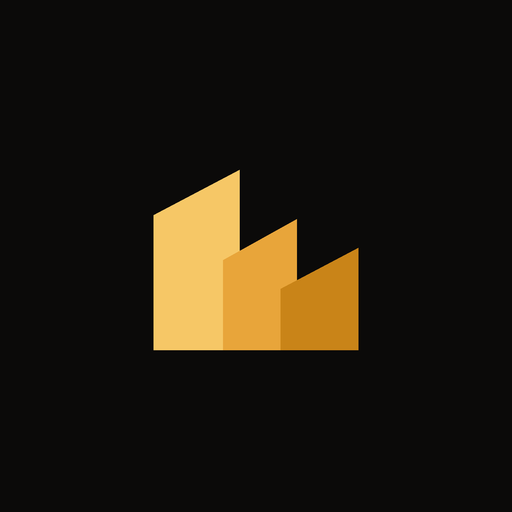
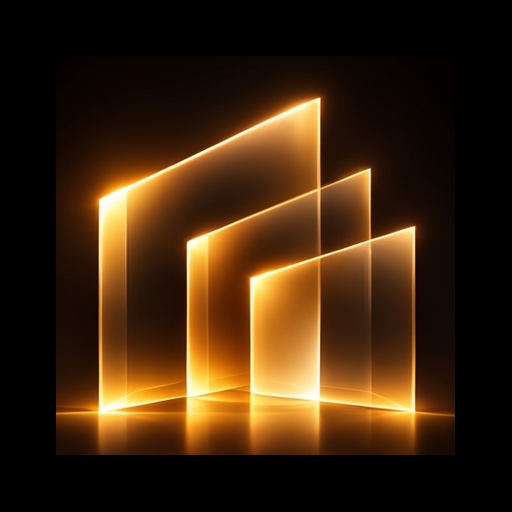
Add files via upload

diff --git a/index.html b/index.html
@@ -42,6 +42,10 @@ h1,h2,h3{font-family:var(--f-num);margin:0;text-wrap:balance}
 h1{font-size:24px;font-weight:700}
 h2{font-size:17px;font-weight:600}
 h3{font-size:15px;font-weight:600}
+.brand{display:flex;align-items:center;gap:12px;min-width:0}
+.brand .mark{width:52px;height:52px;border-radius:12px;flex:none;background:#000}
+.loginlogo{display:block;margin:0 auto;width:140px;height:140px;border-radius:16px;background:#000}
+#setTitle{text-align:center}
 header{display:flex;flex-wrap:wrap;align-items:center;justify-content:space-between;gap:12px}
 .sub{color:var(--muted);font-size:13px}
 .panel{background:var(--surface);border:1px solid var(--line);border-radius:14px;padding:18px;display:flex;flex-direction:column;gap:14px;min-width:0}
@@ -205,9 +209,12 @@ input[type=url],input[type=password]{font:inherit;font-size:16px;color:var(--fg)
 <body>
 <div class="wrap" id="app">
   <header>
-    <div>
-      <h1>مصاريف مالتيفرس</h1>
-      <div class="sub">سجّل أي مصروف، واختار اتدفع من عهدة الحسابات ولا اتصرف من البنك على طول</div>
+    <div class="brand">
+      <img src="logo-mark.png" alt="" width="52" height="52" class="mark">
+      <div>
+        <h1>مصاريف مالتيفرس</h1>
+        <div class="sub">سجّل أي مصروف، واختار اتدفع من عهدة الحسابات ولا اتصرف من البنك على طول</div>
+      </div>
     </div>
     <div class="hdr-tools">
       <button class="btn" id="syncBtn" type="button" aria-label="تحديث البيانات"><span id="sync" class="sync">…</span></button>
@@ -344,6 +351,7 @@ input[type=url],input[type=password]{font:inherit;font-size:16px;color:var(--fg)
 
 <div class="overlay" id="settings" hidden role="dialog" aria-modal="true" aria-labelledby="setTitle">
   <form class="panel" id="setForm" novalidate>
+    <img src="logo-full.png" alt="Multiverse Group" width="140" height="140" class="loginlogo">
     <h2 id="setTitle">مصاريف مالتيفرس</h2>
     <div id="setFirst" class="sub">اكتب الرمز السري مرة واحدة بس على الجهاز ده، وبعدها التطبيق هيفتح على طول.</div>
     <div class="field">

diff --git a/sw.js b/sw.js
@@ -1,6 +1,6 @@
 // يخلي التطبيق يفتح حتى من غير نت (البيانات نفسها بتتجاب من جوجل)
-var CACHE = "mv-expenses-v3";
-var SHELL = ["./", "./index.html", "./manifest.webmanifest", "./icon-192.png", "./icon-512.png", "./icon-maskable-512.png", "./apple-touch-icon.png"];
+var CACHE = "mv-expenses-v4";
+var SHELL = ["./", "./index.html", "./manifest.webmanifest", "./icon-192.png", "./icon-512.png", "./icon-maskable-512.png", "./apple-touch-icon.png", "./logo-mark.png", "./logo-full.png"];
 
 self.addEventListener("install", function (e) {
   e.waitUntil(caches.open(CACHE).then(function (c) { return c.addAll(SHELL); }).then(function () { return self.skipWaiting(); }));
